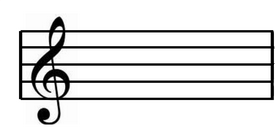
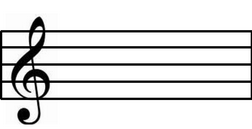
Fixed measures alignment

Changed region(s): [[0.0, 0.124, 0.2778, 0.9922], [0.9722, 0.2171, 1.0, 0.7752]]

diff --git a/src/main/java/GUI/PreviewFileController.java b/src/main/java/GUI/PreviewFileController.java
@@ -1,44 +1,22 @@
 package GUI;
 
 
-import java.awt.BorderLayout;
 import java.awt.FlowLayout;
-import java.awt.GridLayout;
-import java.awt.image.BufferedImage;
-import java.io.File;
 import java.io.IOException;
 
-import javax.imageio.ImageIO;
-import javax.swing.BorderFactory;
 import javax.swing.ImageIcon;
 import javax.swing.JFrame;
 import javax.swing.JLabel;
-import javax.swing.JPanel;
-import javax.swing.JScrollPane;
-import javax.swing.JTabbedPane;
-
 import org.fxmisc.richtext.CodeArea;
 
-import models.measure.Measure;
-import javafx.scene.image.Image;
-import javafx.application.Application;
 import javafx.fxml.FXML;
-import javafx.scene.control.TextField;
 import javafx.scene.image.ImageView;
-import javafx.stage.FileChooser;
-import javafx.stage.Stage;
-import javafx.stage.Window;
-import utility.Settings;
 
 public class PreviewFileController extends JFrame {
 
     private MainViewController mvc;
-    private static Window convertWindow = new Stage();
     @FXML public CodeArea mxlText; 
 
-//    @FXML private TextField titleField;
-//    @FXML private TextField artistField;
-//    @FXML private TextField fileNameField;
     @FXML private ImageView imageView;
 
     public void updateNote() {
@@ -52,23 +30,20 @@ public class PreviewFileController extends JFrame {
     @SuppressWarnings("unused")
 	public PreviewFileController (MainViewController mvcInput, int measurenumber) throws IOException {
     	this.mvc = mvcInput;
-      	setLayout(new FlowLayout(FlowLayout.LEFT,0,0));
-//    	Measure measure = new 
-    	int numberOfTabs = 4;//change to real tabs value later
-    	JLabel trebeclef = new JLabel(new ImageIcon(getClass().getClassLoader().getResource("image_assets/MeasureWithTrebeclef.png")));
-//    	JLabel tab = );
-//    	JLabel tab2 = new JLabel(new ImageIcon(getClass().getClassLoader().getResource("image_assets/Measure.png")));
+      	setLayout(new FlowLayout(FlowLayout.CENTER,0,0));
 
-//    	add(trebeclef);
+    	int numberOfTabs = 4;//change to real tabs value later
+
+    	JLabel trebeclef = new JLabel(new ImageIcon(getClass().getClassLoader().getResource("image_assets/MeasureWithTrebeclef.png")));
+
+    	add(trebeclef);
     	
     	for(int i = 0; i<numberOfTabs;i++) {
     		add(new JLabel(new ImageIcon(getClass().getClassLoader().getResource("image_assets/Measure.png"))));
     	}
     	
     	
- //		frame.add(panel, BorderLayout.CENTER);
-//		frame.getContentPane().add()
-		setDefaultCloseOperation(JFrame.EXIT_ON_CLOSE);
+ 		setDefaultCloseOperation(JFrame.EXIT_ON_CLOSE);
 		setTitle("Sheetssss");
 		pack();
 		setVisible(true);
@@ -86,18 +61,7 @@ public class PreviewFileController extends JFrame {
     }
     
     public void initialize() {
-		Settings s = Settings.getInstance();
-		
-		System.out.println("Image displayed");
-//	    BufferedImage bufferedImage;
-//	    bufferedImage = ImageIO.read(new File("/image_assets/MeasureWithTrebeclef.png"));
-//	    image = SwingFXUtils.toFXImage(bufferedImage, null);
-//	    this.imageView.setImage(image);
-//	    System.out.println("Image displayed2");
-	    
-//		titleField.setText(s.title);
-//		artistField.setText(s.artist);
-	}
+		}
     
     @FXML
     private void saveButtonClicked() {
@@ -145,7 +109,7 @@ public class PreviewFileController extends JFrame {
 
     @FXML
     private void cancelButtonClicked()  {
-//    	mvc.convertWindow.hide();
+    	mvc.convertWindow.hide();
     }
 
 }
